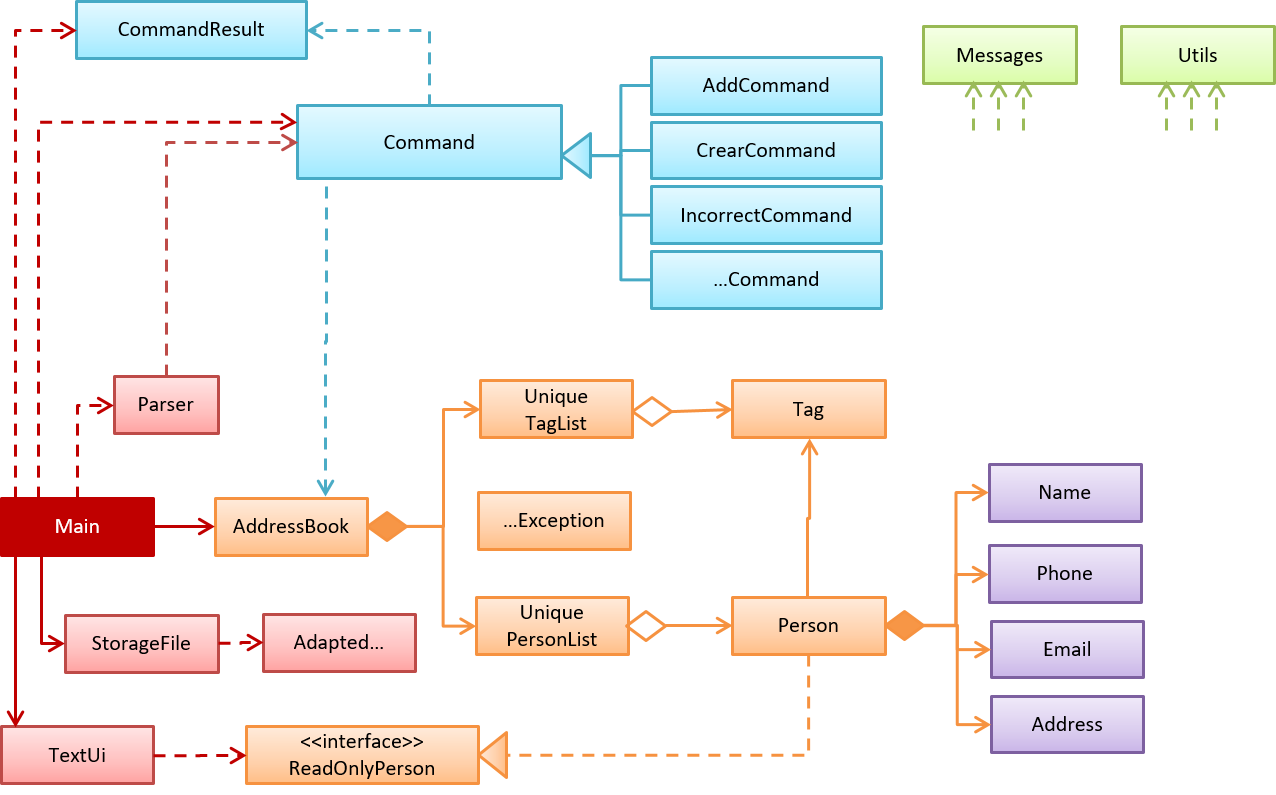
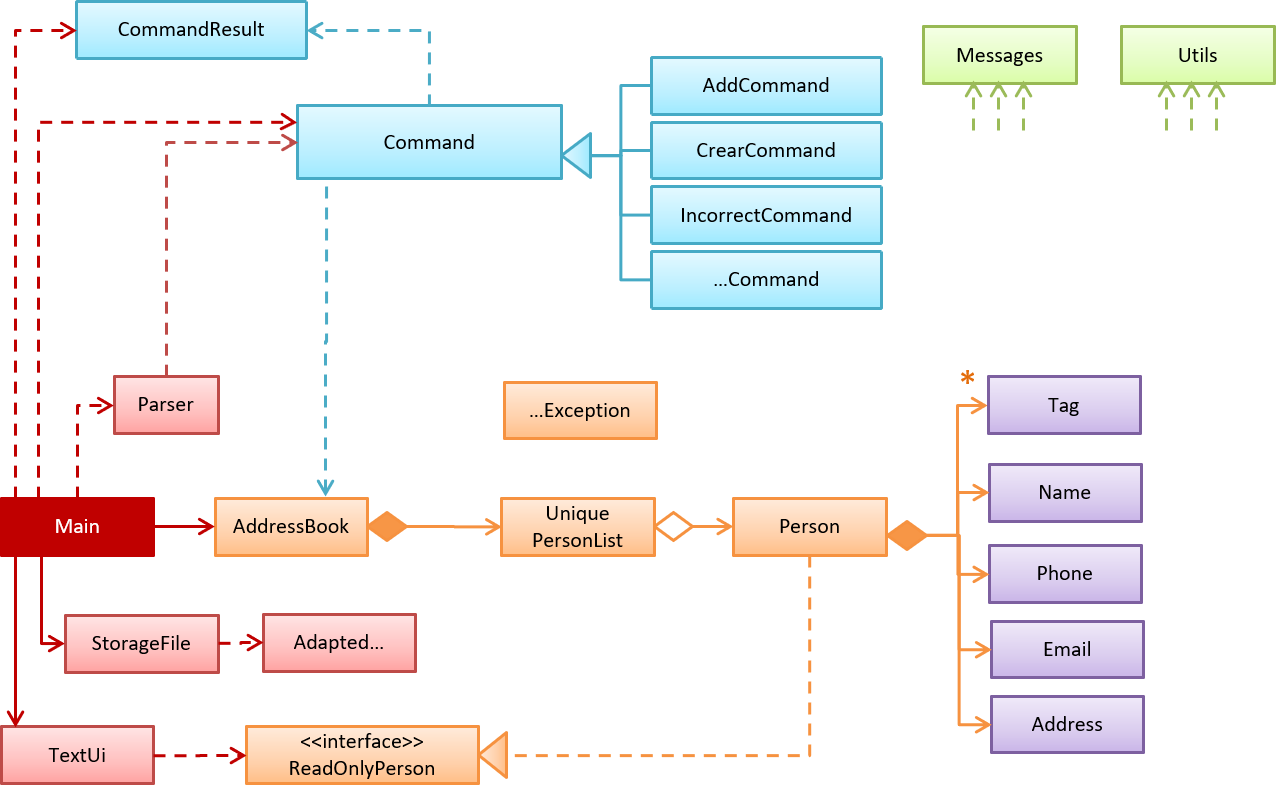
Rebuild pages at ba89e36df1717cbfc90e64fa60c23553f038a7e7

diff --git a/LearningOutcomes.html b/LearningOutcomes.html
@@ -283,7 +283,7 @@ e.g. <code>Main.VERSION</code>, <code>Name.EXAMPLE</code>, <code>Utils.isAnyNull
 class-level method. Note how this method can be either class-level or instance-level.</p>
 </li>
 <li>
-<p>Note how the <code>setTags</code> method of the <code>Person</code> class cannot be converted to a class-level method.</p>
+<p>Note how some instance-level methods, such as the <code>setTags</code> method of the <code>Person</code> class, cannot be converted to a class-level method.</p>
 </li>
 <li>
 <p>Add an instance-level member <code>int sequenceNumber</code> and a class-level variable <code>int nextSequenceNumber</code>
@@ -332,11 +332,11 @@ that indicates the order in which <code>Person</code> objects were created. e.g.
 <tbody>
 <tr>
 <td class="tableblock halign-left valign-top"><p class="tableblock"><code>AddressBook</code></p></td>
-<td class="tableblock halign-left valign-top"><p class="tableblock"><code>UniquePersonList</code> <code>UniqueTagList</code></p></td>
+<td class="tableblock halign-left valign-top"><p class="tableblock"><code>UniquePersonList</code></p></td>
 </tr>
 <tr>
 <td class="tableblock halign-left valign-top"><p class="tableblock"><code>Person</code></p></td>
-<td class="tableblock halign-left valign-top"><p class="tableblock"><code>Name</code> <code>Phone</code> <code>Email</code> <code>Address</code></p></td>
+<td class="tableblock halign-left valign-top"><p class="tableblock"><code>Name</code> <code>Phone</code> <code>Email</code> <code>Address</code> <code>Tag</code></p></td>
 </tr>
 </tbody>
 </table>
@@ -358,10 +358,6 @@ that indicates the order in which <code>Person</code> objects were created. e.g.
 <tr>
 <td class="tableblock halign-left valign-top"><p class="tableblock"><code>UniquePersonList</code></p></td>
 <td class="tableblock halign-left valign-top"><p class="tableblock"><code>Person</code></p></td>
-</tr>
-<tr>
-<td class="tableblock halign-left valign-top"><p class="tableblock"><code>UuniqueTagList</code></p></td>
-<td class="tableblock halign-left valign-top"><p class="tableblock"><code>Tag</code></p></td>
 </tr>
 </tbody>
 </table>
@@ -567,4 +563,4 @@ e.g. <code>John K Smith</code> <code>John K SMITh</code> <code>John Smith</code>
 </div>
 </div>
 </div>
-</div></div><div id="footer"><div class="container"><div id="footer-text">Last updated 2018-08-04 16:10:55 UTC</div></div></div></body></html>
+</div></div><div id="footer"><div class="container"><div id="footer-text">Last updated 2018-08-08 12:03:27 UTC</div></div></div></body></html>

diff --git a/DeveloperGuide.html b/DeveloperGuide.html
@@ -191,4 +191,4 @@ creates a new storage file. Tests should pass from the 2nd run onwards.</p>
 </div>
 </div>
 </div>
-</div></div><div id="footer"><div class="container"><div id="footer-text">Last updated 2018-08-04 16:10:55 UTC</div></div></div></body></html>
+</div></div><div id="footer"><div class="container"><div id="footer-text">Last updated 2018-08-08 12:03:27 UTC</div></div></div></body></html>

diff --git a/index.html b/index.html
@@ -62,4 +62,4 @@ if you noticed bugs or have suggestions on how to improve.</p>
 </ul>
 </div>
 </div>
-</div></div><div id="footer"><div class="container"><div id="footer-text">Last updated 2018-08-04 16:10:55 UTC</div></div></div></body></html>
+</div></div><div id="footer"><div class="container"><div id="footer-text">Last updated 2018-08-08 12:03:27 UTC</div></div></div></body></html>

diff --git a/UserGuide.html b/UserGuide.html
@@ -359,4 +359,4 @@ before running the program.</p>
 </table>
 </div>
 </div>
-</div></div><div id="footer"><div class="container"><div id="footer-text">Last updated 2018-08-04 16:10:55 UTC</div></div></div></body></html>
+</div></div><div id="footer"><div class="container"><div id="footer-text">Last updated 2018-08-08 12:03:27 UTC</div></div></div></body></html>
